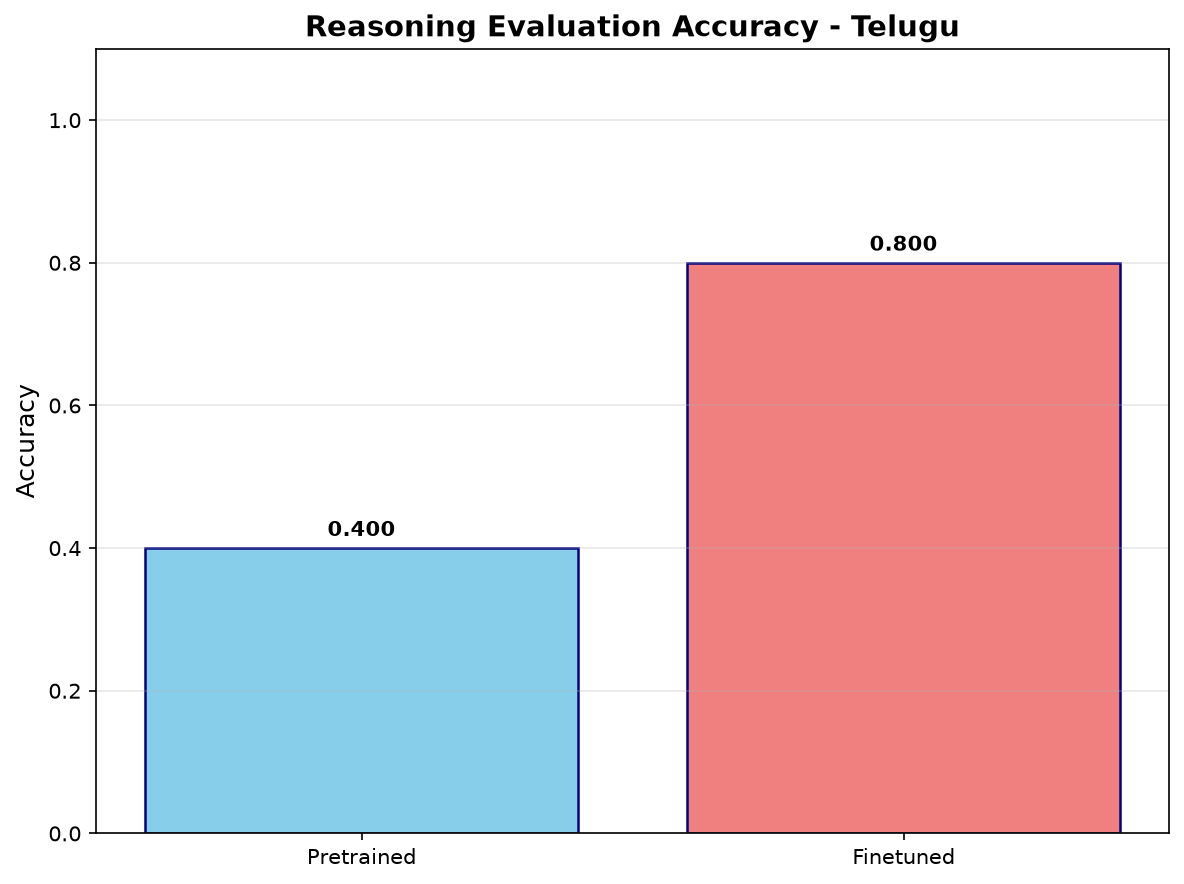
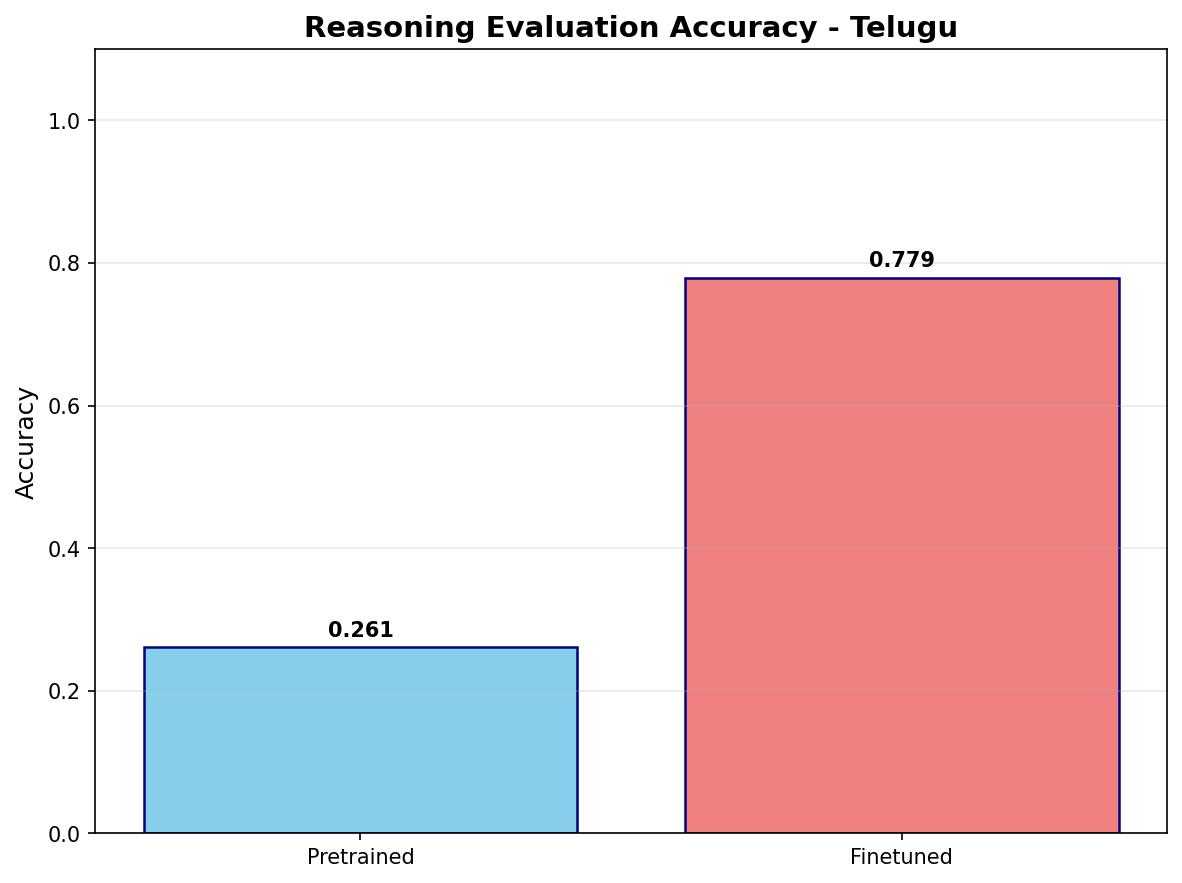
telugu eval done

diff --git a/Telugu/eval/generation.evaluation.py b/Telugu/eval/generation.evaluation.py
@@ -11,10 +11,10 @@ import evaluate
 # =========================================================
 
 FILES = {
-    "Greedy": "Telugu/generation_examples_greedy.json",
-    "Temp 0.5": "Telugu/generation_examples_0_5.json",
-    "Temp 1.0": "Telugu/generation_examples_1_0.json",
-    "Temp 1.5": "Telugu/generation_examples_1_5.json",
+    "Greedy": "Telugu/generation_examples_greedy_finetuned.json",
+    "Temp 0.5": "Telugu/generation_examples_0_5_finetuned.json",
+    "Temp 1.0": "Telugu/generation_examples_1_0_finetuned.json",
+    "Temp 1.5": "Telugu/generation_examples_1_5_finetuned.json",
 }
 
 TOKENIZER_MODEL = "Telugu/tokenizer/models/telugu_sentencepiece_bpe_8k/telugu_bpe_8k.model"
@@ -269,7 +269,7 @@ if __name__ == "__main__":
     # -----------------------------------------------------
 
     with open(
-        "generation_metrics.json",
+        "Telugu/outputs/finetuned/generation_metrics.json",
         "w",
         encoding="utf-8"
     ) as f:
@@ -281,4 +281,4 @@ if __name__ == "__main__":
             indent=2
         )
 
-    print("\nSaved results to generation_metrics.json")
+    print("\nSaved results to Telugu/outputs/finetuned/generation_metrics.json")

diff --git a/Telugu/eval/attention.evaluation.py b/Telugu/eval/attention.evaluation.py
@@ -35,11 +35,11 @@ CONFIG_FILE = f"{LANGUAGE}/configs/config1.yaml"
 
 REPO_ID = "iconically-mine/LMA-individual-project"
 
-MODEL_FILE = f"{LANGUAGE}/best_{LANGUAGE.lower()}.pt"
+MODEL_FILE = "finetuned/Telugu/best_telugu_finetuned.pt"
 
 TEST_BIN = f"data_bins/{LANGUAGE.lower()}/test_train.bin"
 
-OUTPUT_DIR = "attention_results"
+OUTPUT_DIR = "Telugu/outputs/finetuned/attention_results"
 
 NUM_EXAMPLES = 5
 
